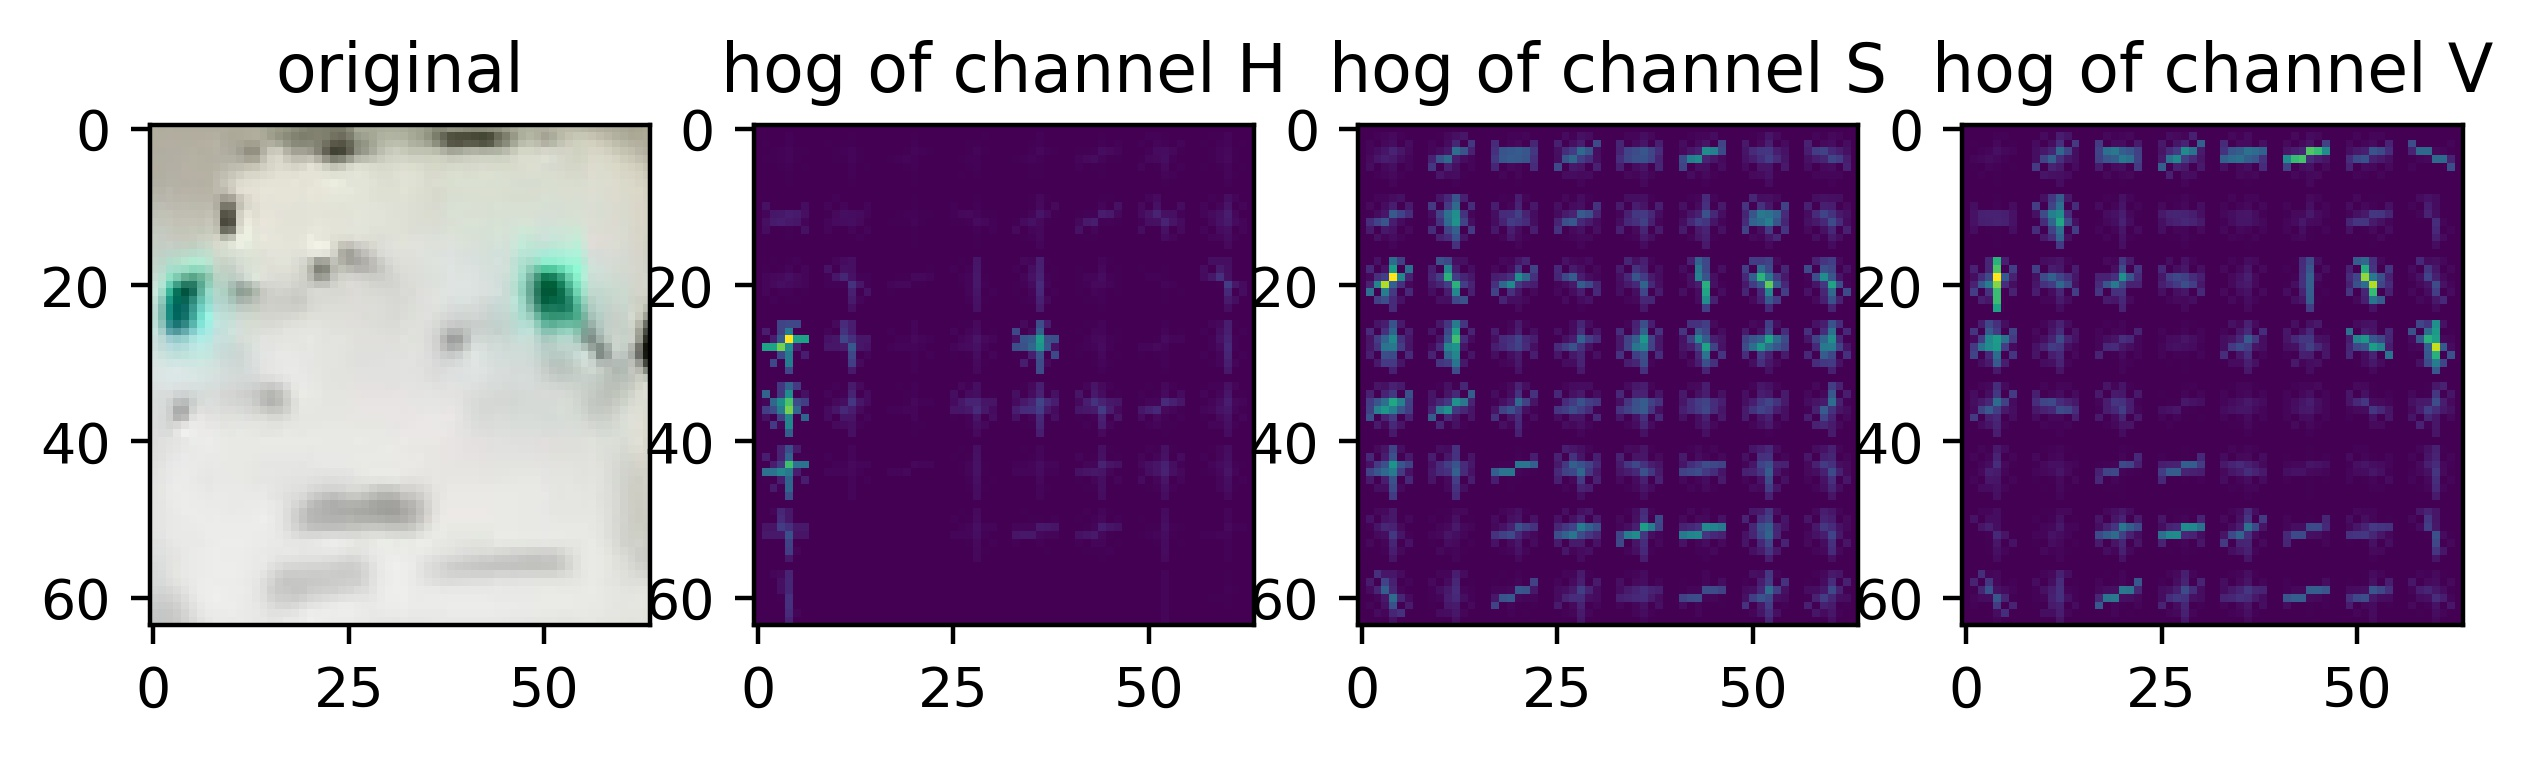
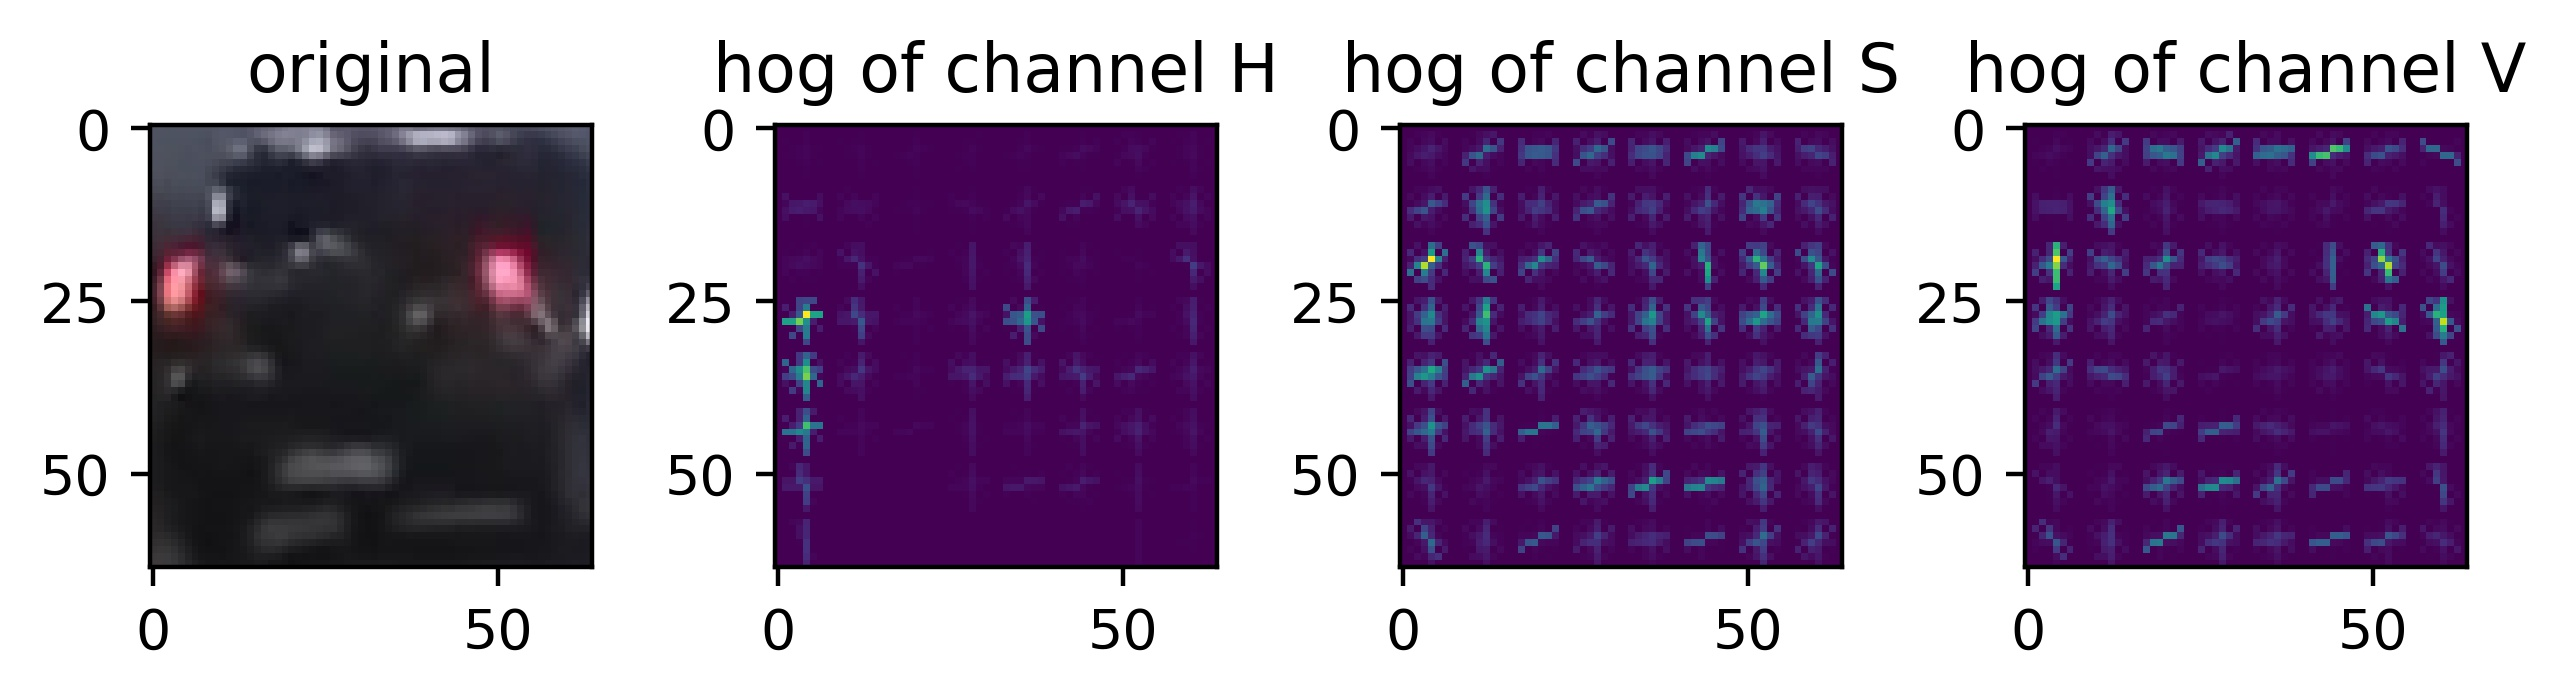
update

diff --git a/CarND-Vehicle-Detection/src/feature.py b/CarND-Vehicle-Detection/src/feature.py
@@ -151,8 +151,8 @@ def extract_features(img_paths, param, data_aug=True):
 def sample_hog_vis(car_img_path, notcar_img_path, param):
     plt.subplot(1,4,1)
     img = mpimg.imread(car_img_path)
-    if car_img_path.endswith('png'):
-        img = img.astype(np.float32)*255
+    # if car_img_path.endswith('png'):
+    #     img = img.astype(np.float32)*255
     # img = cv2.cvtColor(cv2.imread(car_img_path), cv2.COLOR_BGR2RGB)
     plt.tight_layout()
     plt.imshow(img)
@@ -167,8 +167,8 @@ def sample_hog_vis(car_img_path, notcar_img_path, param):
 
     plt.subplot(1,4,1)
     img = mpimg.imread(notcar_img_path)
-    if notcar_img_path.endswith('png'):
-        img = img.astype(np.float32)*255
+    # if notcar_img_path.endswith('png'):
+    #     img = img.astype(np.float32)*255
     # img = cv2.cvtColor(cv2.imread(notcar_img_path), cv2.COLOR_BGR2RGB)
     plt.tight_layout()
     plt.imshow(img)
